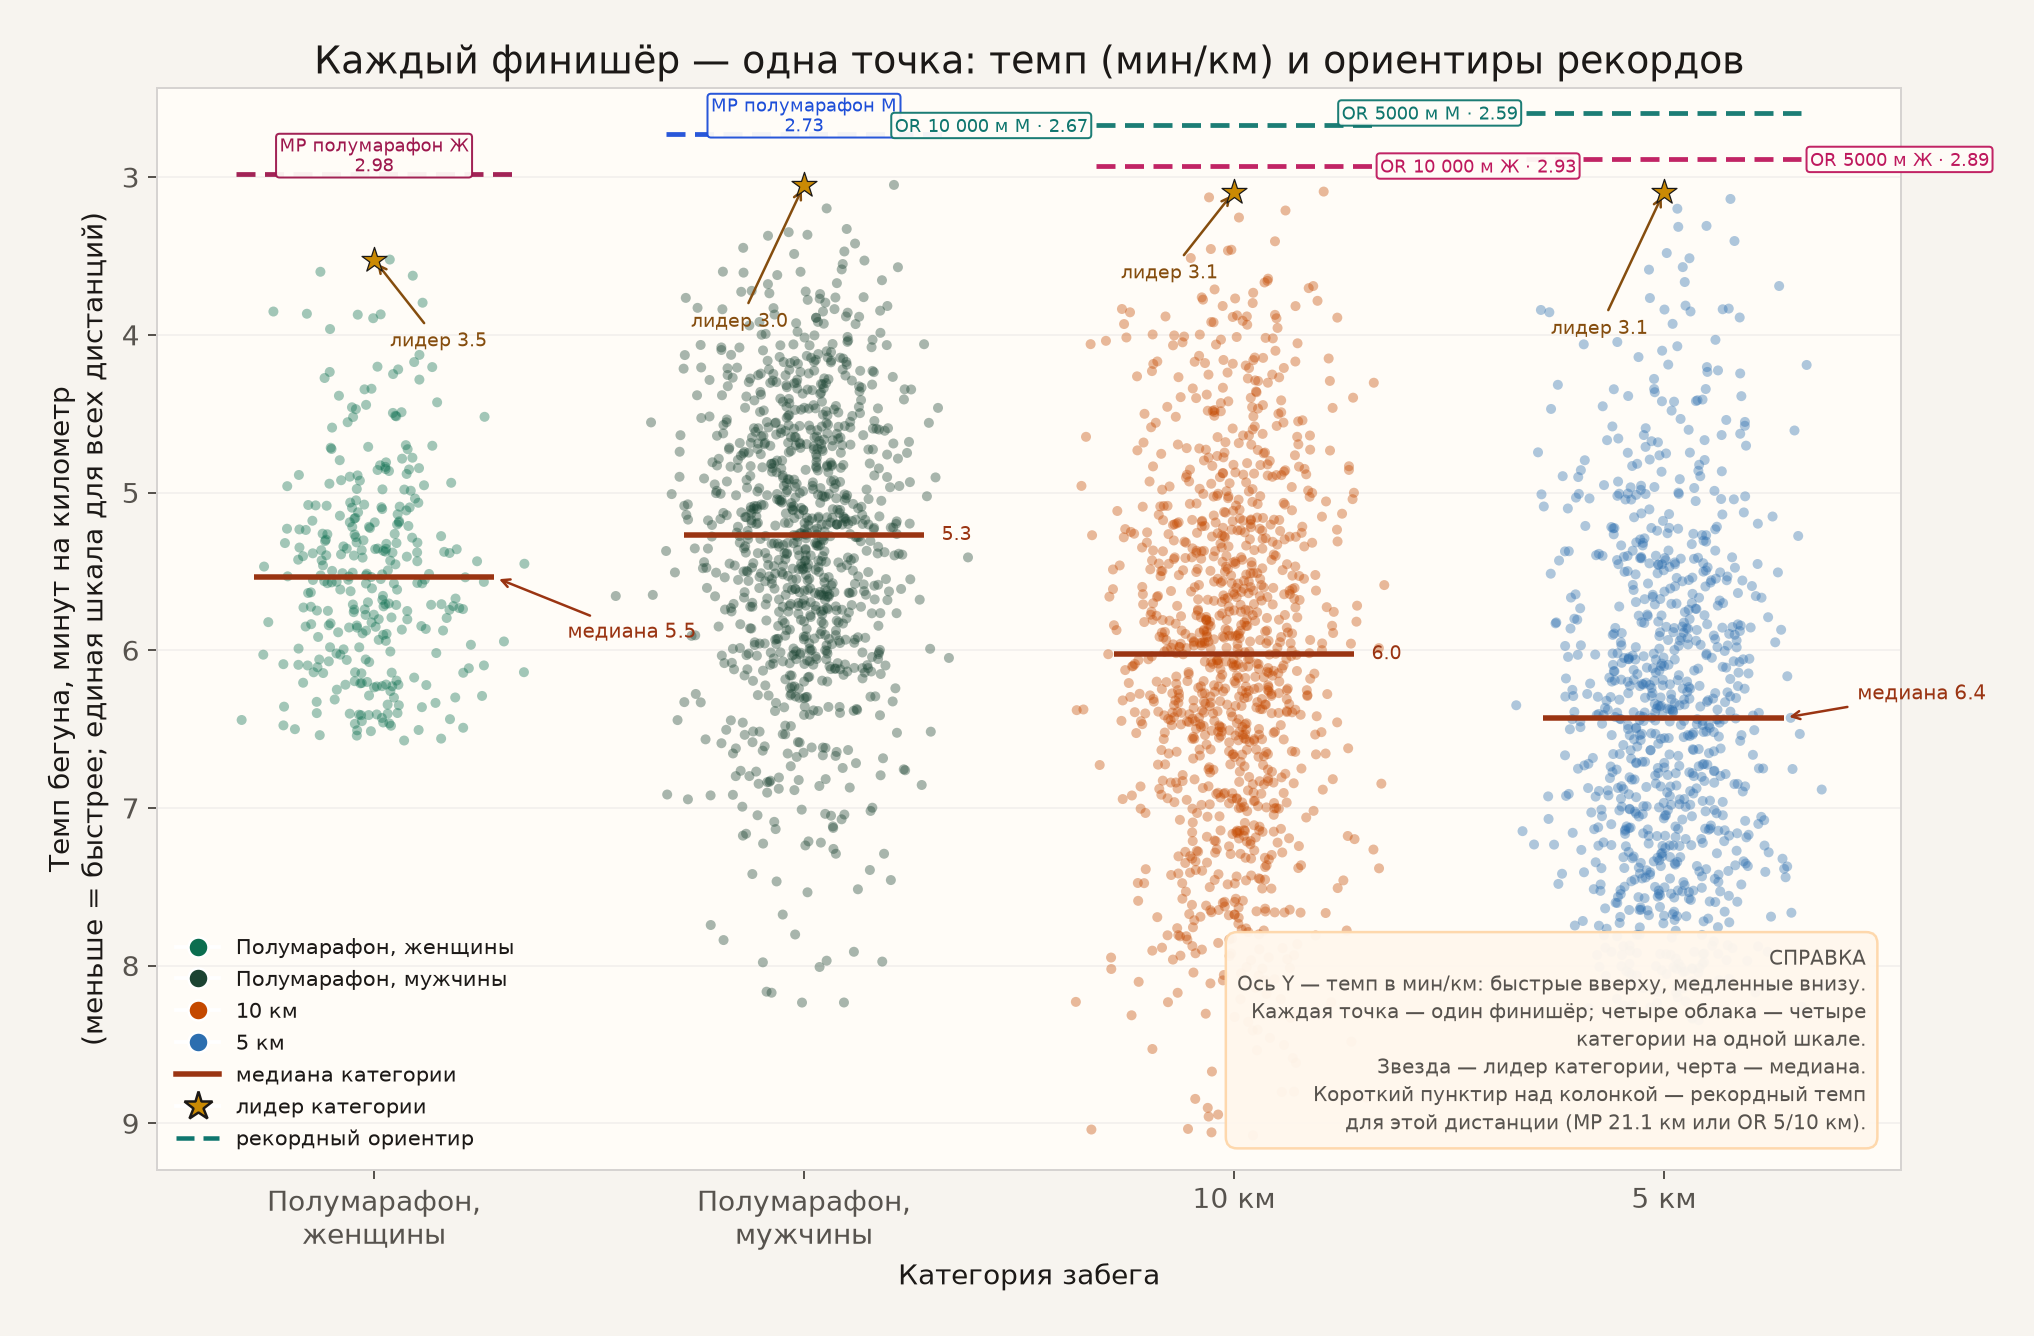
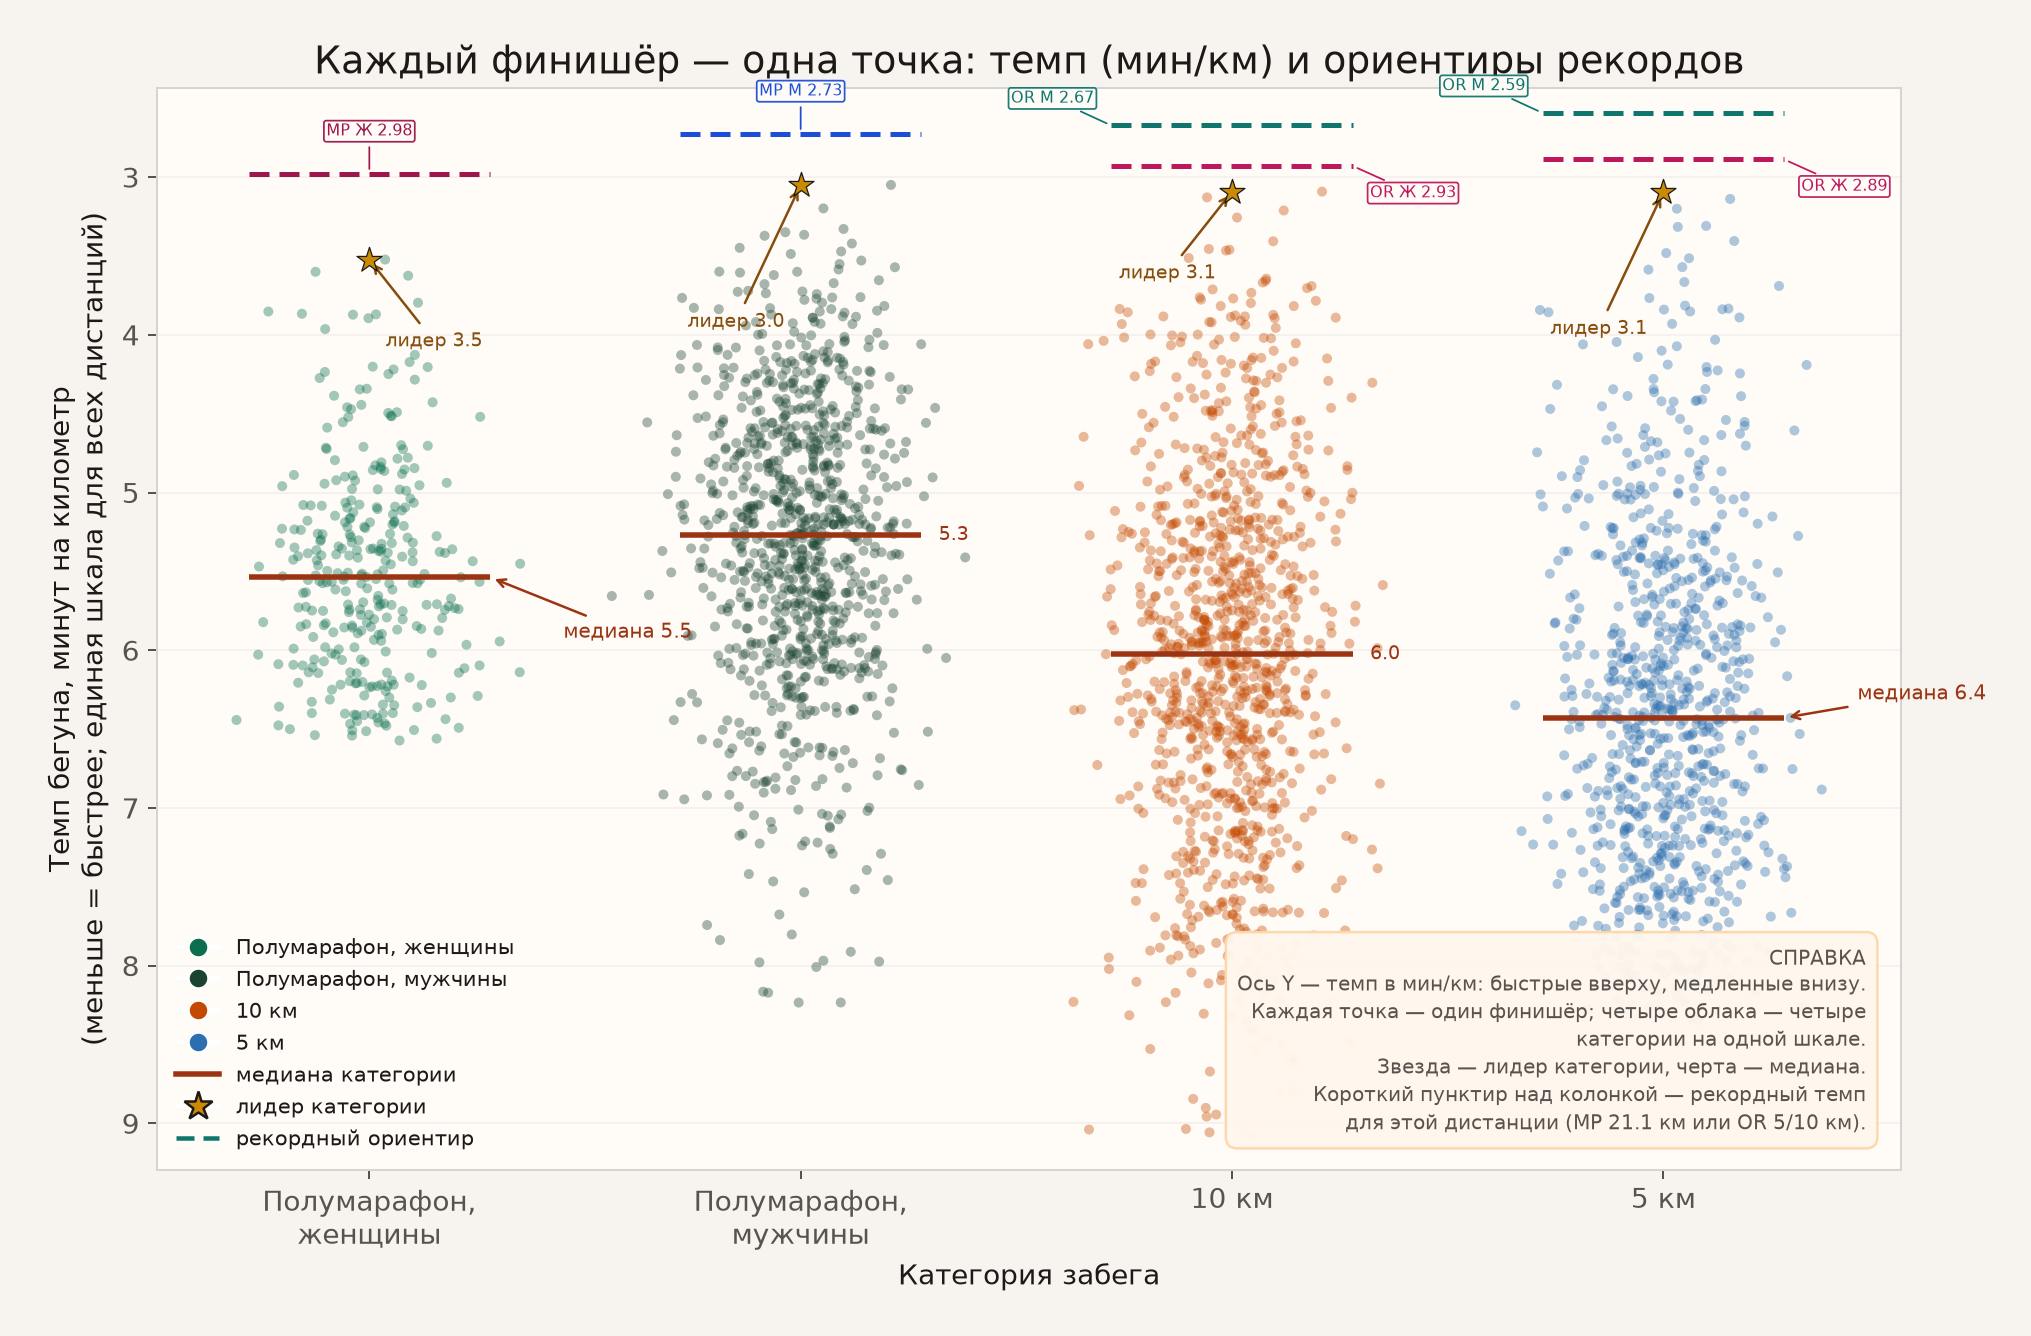
Развести подписи рекордов М/Ж внутри колонки

diff --git a/src/plot_analysis.py b/src/plot_analysis.py
@@ -119,44 +119,66 @@ def draw_record_segment(
     color: str,
     value_text: str,
     ls=(0, (4, 2)),
-    half_width: float = 0.32,
+    half_width: float = 0.28,
     label_dx: float = 0.0,
     label_side: str = "above",
 ) -> None:
     """Короткий ориентир только над своей колонкой категории."""
-    ax.hlines(
-        y_value,
-        x_center - half_width,
-        x_center + half_width,
-        colors=color,
-        lw=1.9,
+    ax.plot(
+        [x_center - half_width, x_center + half_width],
+        [y_value, y_value],
+        color=color,
+        lw=2.0,
         ls=ls,
         zorder=3,
-        alpha=0.95,
+        solid_capstyle="butt",
     )
-    # подпись сбоку от сегмента — чтобы М/Ж на одной колонке не наезжали
+    # Короткая подпись рядом с сегментом (не на всю ширину графика)
+    short = label.replace("полумарафон ", "").replace("10 000 м ", "").replace("5000 м ", "")
+    text = f"{short} {value_text}"
     if label_side == "left":
-        tx, ha, va = x_center - half_width - 0.02, "right", "center"
-        text = f"{label} · {value_text}"
+        # выше линии на экране при invert_yaxis → меньший y
+        ax.annotate(
+            text,
+            xy=(x_center - half_width, y_value),
+            xytext=(x_center - half_width - 0.04, y_value - 0.12),
+            fontsize=6.5,
+            color=color,
+            ha="right",
+            va="bottom",
+            arrowprops=dict(arrowstyle="-", color=color, lw=0.7),
+            bbox=dict(boxstyle="round,pad=0.15", facecolor="#FFFCF7", edgecolor=color, linewidth=0.7, alpha=0.95),
+            zorder=5,
+            clip_on=False,
+        )
     elif label_side == "right":
-        tx, ha, va = x_center + half_width + 0.02, "left", "center"
-        text = f"{label} · {value_text}"
+        ax.annotate(
+            text,
+            xy=(x_center + half_width, y_value),
+            xytext=(x_center + half_width + 0.04, y_value + 0.12),
+            fontsize=6.5,
+            color=color,
+            ha="left",
+            va="top",
+            arrowprops=dict(arrowstyle="-", color=color, lw=0.7),
+            bbox=dict(boxstyle="round,pad=0.15", facecolor="#FFFCF7", edgecolor=color, linewidth=0.7, alpha=0.95),
+            zorder=5,
+            clip_on=False,
+        )
     else:
-        tx, ha, va = x_center + label_dx, "center", "bottom"
-        text = f"{label}\n{value_text}"
-    ax.text(
-        tx,
-        y_value,
-        text,
-        va=va,
-        ha=ha,
-        fontsize=7,
-        color=color,
-        linespacing=1.05,
-        bbox=dict(boxstyle="round,pad=0.2", facecolor="#FFFCF7", edgecolor=color, linewidth=0.8, alpha=0.95),
-        zorder=5,
-        clip_on=False,
-    )
+        ax.annotate(
+            text,
+            xy=(x_center, y_value),
+            xytext=(x_center, y_value - 0.22),
+            fontsize=6.5,
+            color=color,
+            ha="center",
+            va="bottom",
+            arrowprops=dict(arrowstyle="-", color=color, lw=0.7),
+            bbox=dict(boxstyle="round,pad=0.15", facecolor="#FFFCF7", edgecolor=color, linewidth=0.7, alpha=0.95),
+            zorder=5,
+            clip_on=False,
+        )
 
 
 def setup_style() -> None:
